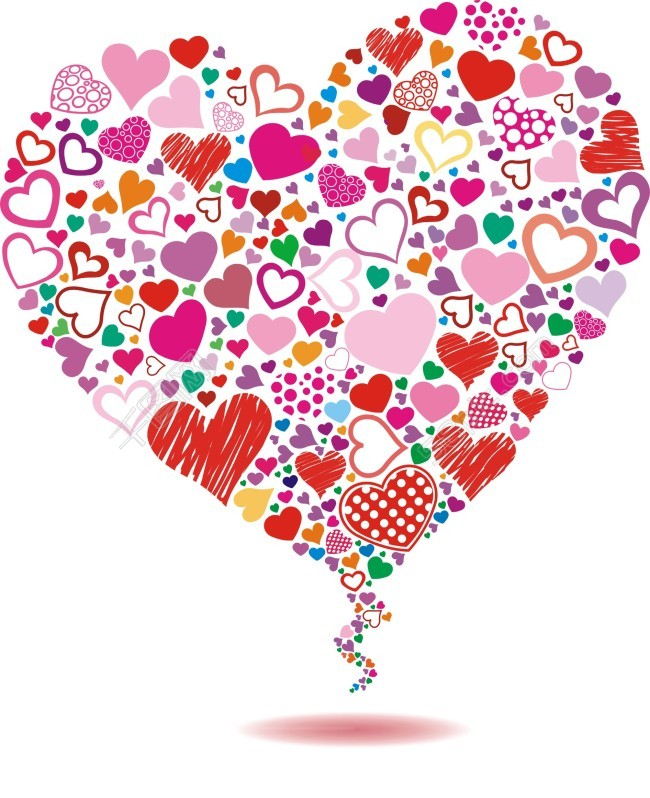
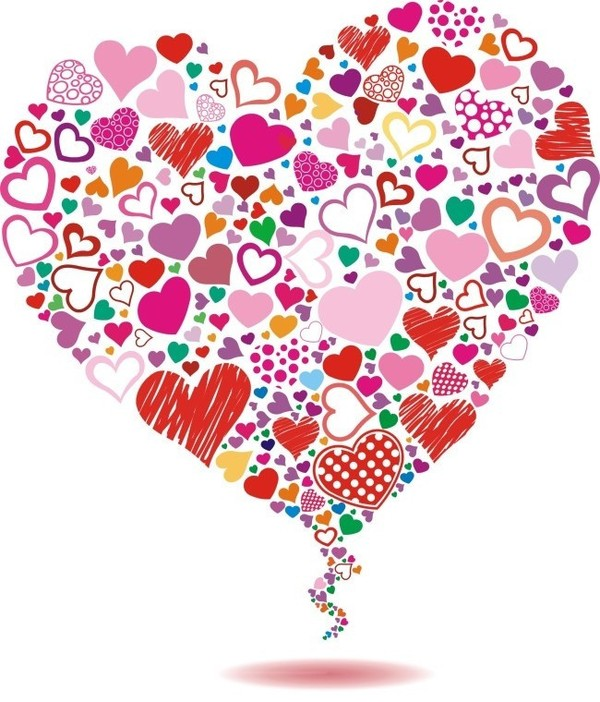
z

diff --git a/index.html b/index.html
@@ -5,7 +5,7 @@
 <meta http-equiv="X-UA-Compatible" content="IE=edge">
 <meta name="viewport" content="width=device-width, initial-scale=1">
 <!-- The above 3 meta tags *must* come first in the head; any other head content must come *after* these tags -->
-<title>小帆帆</title>
+<title>love</title>
 
 <!-- Bootstrap -->
 <link href="css/bootstrap.min.css" rel="stylesheet">
@@ -14,7 +14,8 @@
 <body>
 	<div class="container-fluid text-center">
 		<h1>亲爱滴,小帆帆</h1>
-		<span class="glyphicon glyphicon-heart" aria-hidden="true"></span>
+		<!-- <span class="glyphicon glyphicon-heart" aria-hidden="true"></span> -->
+		<img src='img/love.jpg' class='img-responsive center-block ' />
 		<div class="row">
 			<div class="panel panel-success">
 				<div class="panel-heading">音乐</div>
